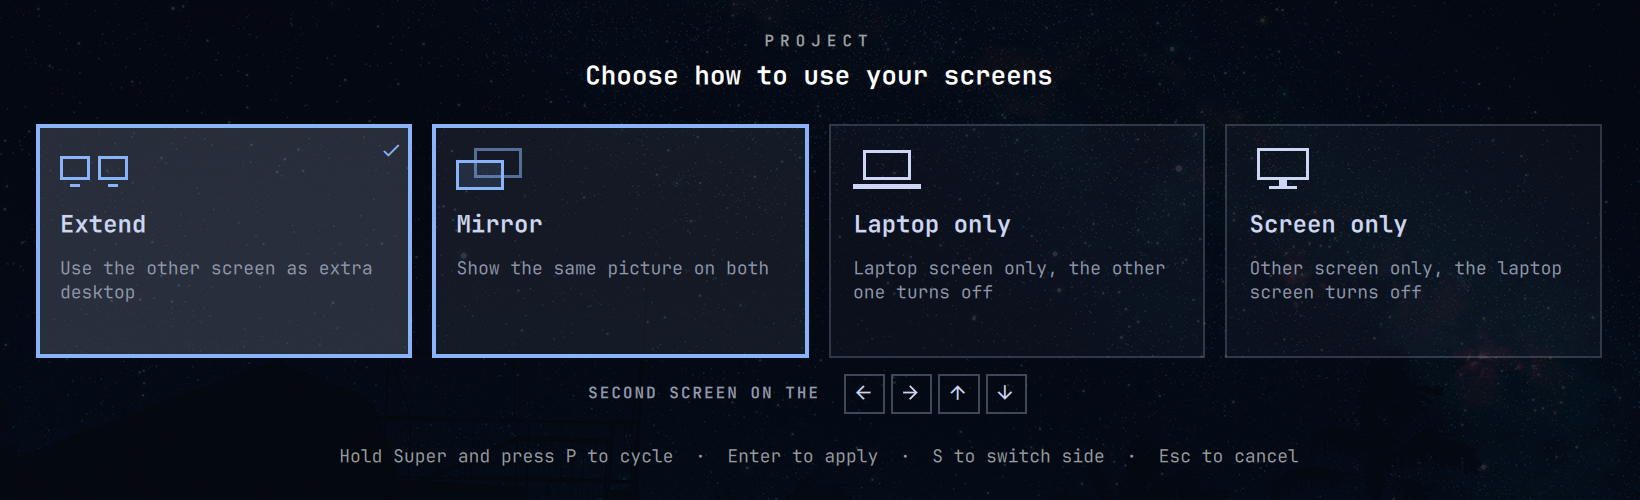
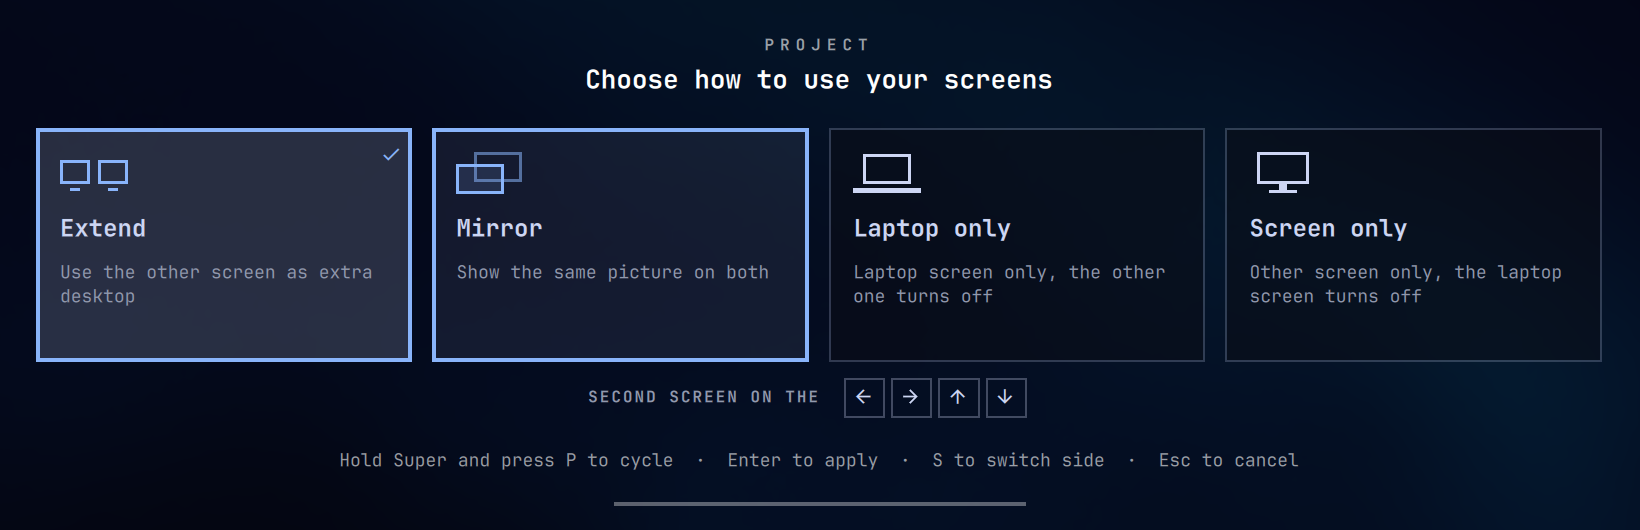
README and previews for the frosted picker

diff --git a/README.md b/README.md
@@ -20,7 +20,8 @@ scale, and switching screens on or off now live on a **Display** tab. The new
 - **Remember this setup.** Keeps placement, resolution and scale across a reload
   or reboot.
 
-There is also a full-screen picker you can open with **Super + P**.
+There is also a full-screen picker you can open with **Super + P**. It frosts
+the screen behind it and closes by itself after 10 seconds if you choose nothing.
 
 | | |
 | --- | --- |
@@ -58,7 +59,9 @@ for one of them.
 
 Press it once to open the picker with your current layout selected. Press it again
 to step to the next layout, or use the arrow keys, Tab, `1`-`4`, `S` to change the
-side and Esc to cancel. Enter or a click applies the layout. Letting go of Super
+side and Esc to cancel. Enter or a click applies the layout. If you do nothing for 10 seconds it closes on
+its own (a thin bar under the hint shows the time left, and any key press or mouse
+move starts it over). Letting go of Super
 applies it too, as long as you stepped with the key and your compositor forwards the
 key release to the picker. Enter always works.
 
